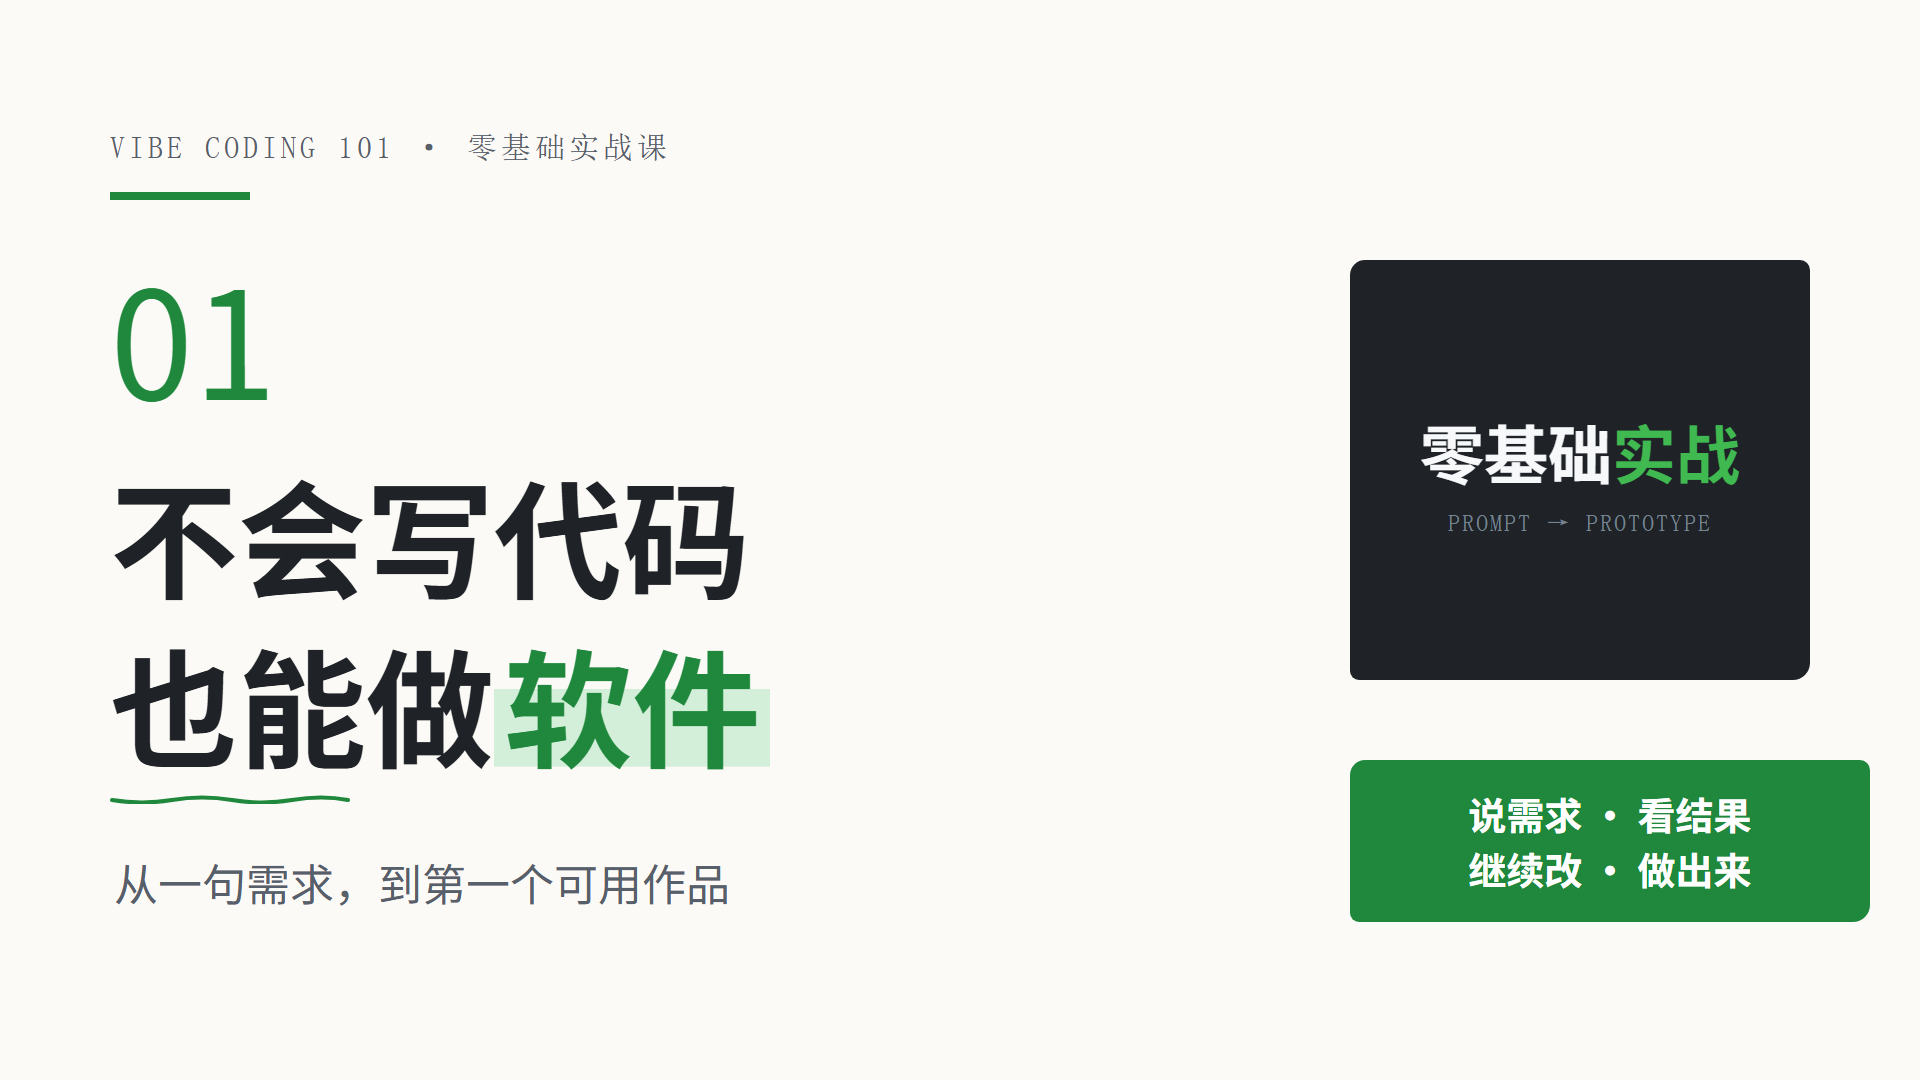
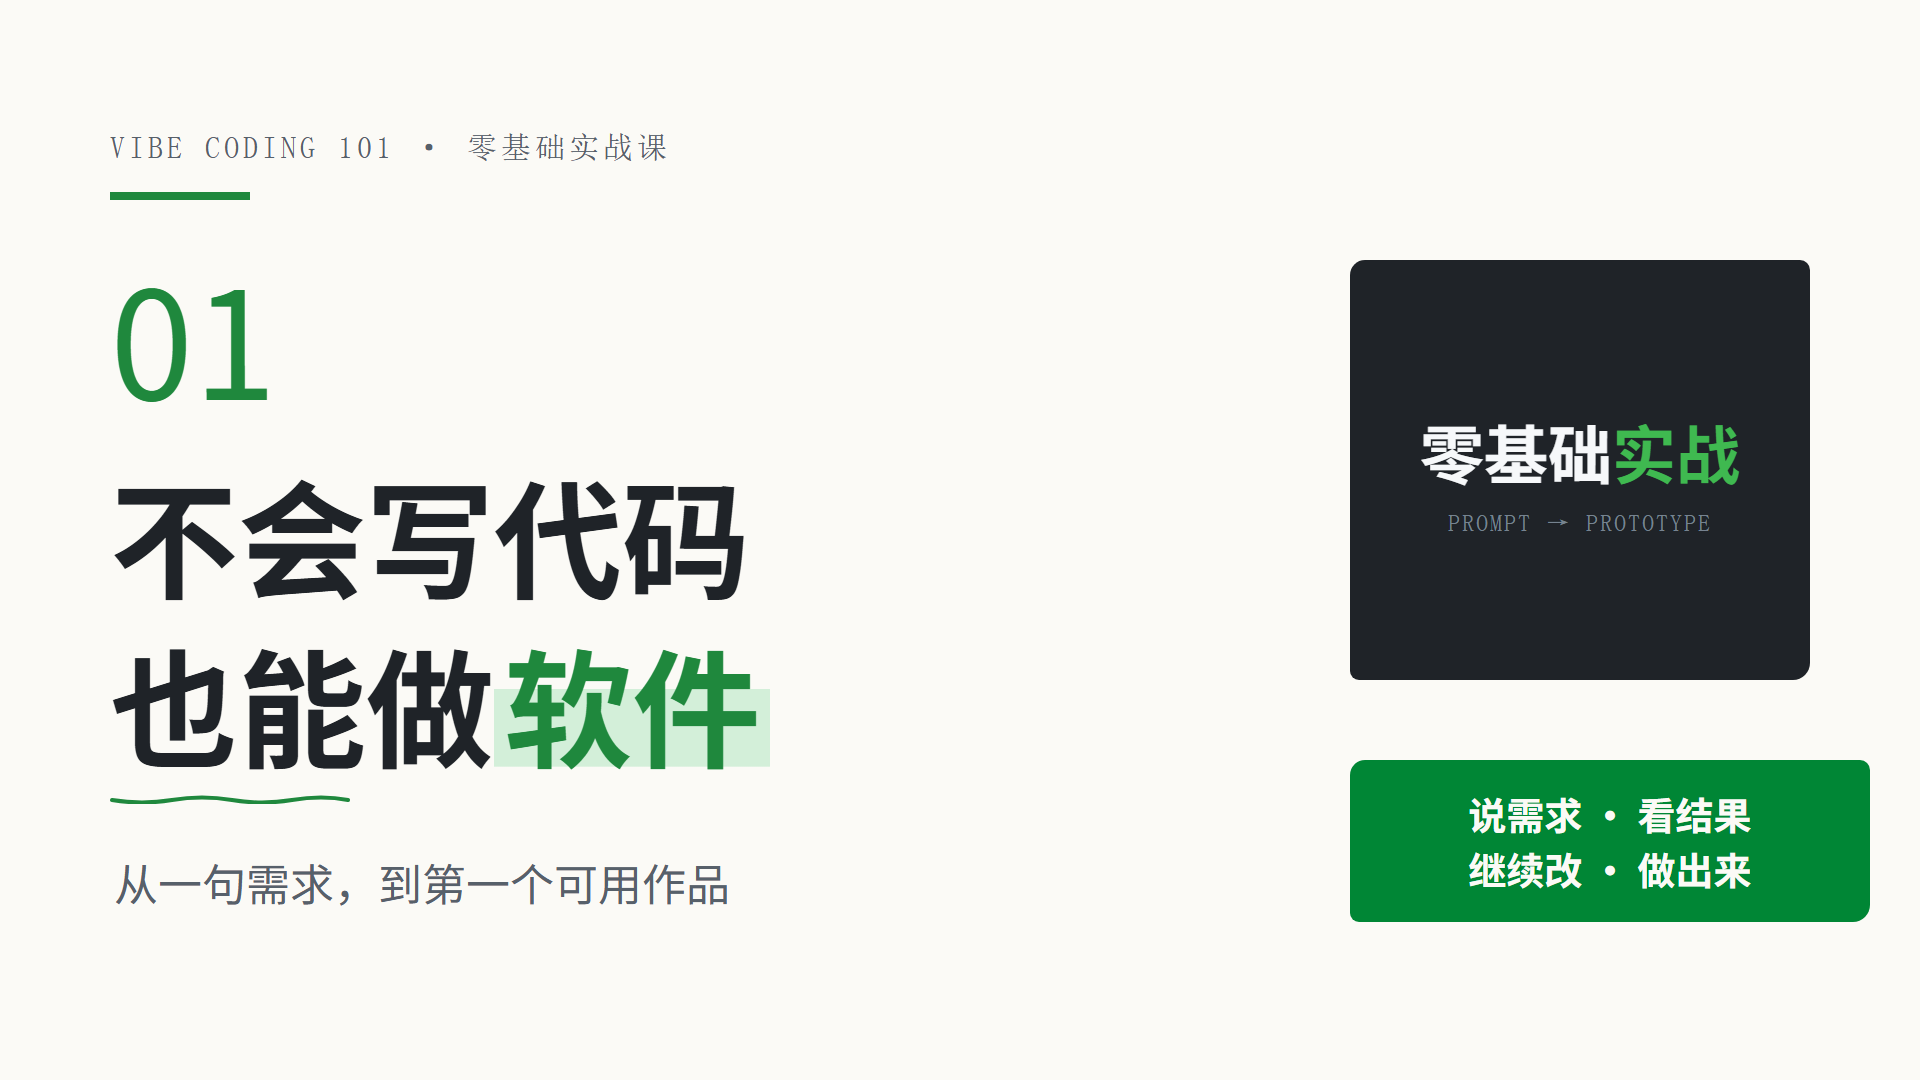
feat(covers): put the EP.01 CTA on the measured accent block
White text on #1f883d measured 4.33:1, under the onText floor, on both
EP.01 covers; the block is now #008635 with paper text (4.51:1 / APCA 74)
and the deliverable webp files are re-snapshotted from the compositions.
Also lands the FA-013 real-image key visual (cover-art-fa013.webp, no
in-image text, prompt from prompt_style.py) for Phase G reuse, and brings
the handdraw README status table in line with what actually shipped.

Changed region(s): [[0.6875, 0.7028, 1.0, 0.8556]]

diff --git a/videos/vertical/compositions/cover.html b/videos/vertical/compositions/cover.html
@@ -64,13 +64,13 @@
       top: 1420px;
       left: 72px;
       width: 936px;
-      background: #1f883d;
+      background: #008635;
       border-radius: 15px 10px 17px 9px;
       padding: 34px 40px;
       font-family: "Noto Sans JP", sans-serif;
       font-weight: 700;
       font-size: 46px;
-      color: #ffffff;
+      color: #fbfaf6;
       text-align: center;
     }
     #cv-sub {

diff --git a/videos/landscape/compositions/cover.html b/videos/landscape/compositions/cover.html
@@ -88,13 +88,13 @@
       top: 760px;
       left: 1350px;
       width: 460px;
-      background: #1f883d;
+      background: #008635;
       border-radius: 15px 10px 17px 9px;
       padding: 26px 30px;
       font-family: "Noto Sans JP", sans-serif;
       font-weight: 700;
       font-size: 38px;
-      color: #ffffff;
+      color: #fbfaf6;
       text-align: center;
     }
 

diff --git a/design/handdraw/README.md b/design/handdraw/README.md
@@ -1,7 +1,7 @@
 # 手绘风改造方案（handraw-style）
 
 > 依据 [yang0/handraw-style](https://github.com/yang0/handraw-style) 的风格库与规则生成。
-> 本目录只交付**提示词与点位方案**，未生成任何图片；把提示词粘进生图模型即可出图。
+> 本目录交付提示词与点位方案，并落地了代码绘制的封面与首批图解；`covers/cover-art-fa013.webp` 为 FA-013 真出图 key visual（无字）。
 > 原始需求逐字存档于 `original-request.txt`。
 
 ## 一句话目标
@@ -45,8 +45,9 @@ python skills/handdraw-style-prompter/scripts/resolve_reference.py --model gpt-i
 
 | 资产 | 现状 | 改造稿 |
 | --- | --- | --- |
-| 书封面 `book/assets/cover.svg` / `cover.webp` | 代码海报风 | `covers.md` 第 0 组（未落地） |
-| EP.01 横/竖封面 `deliverables/{landscape,vertical}-cover.webp` | 2026-10-31 按 composition 重截旧海报（**尚未手绘化**，缺 EP 数字/副标题/卡片/CTA 的手绘稿） | Phase B：`covers.md` 第 1–2 组（FA-013 真出图 / SVG 兜底）→ `render_ep01_covers.py` |
+| 书封面 `book/assets/cover.svg` / `cover.webp` | ✅ 手绘 + 已对齐 `design/system` token（卡面 `#fffdf8`、角标 `#008635`+纸色字 4.51:1/APCA 74、柿子橙苹果）；webp 由 `render_book_cover.py` 重出 | `covers.md` 第 0 组（已落地） |
+| EP.01 横/竖封面 `deliverables/{landscape,vertical}-cover.webp` | ✅ composition 已手绘皮肤（b21a488）并按 composition 重截（c7715ea）；CTA 改 `#008635` 底 + 纸色字（原白字压 `#1f883d` 实测 4.33:1 不达标） | `render_ep01_covers.py` |
+| FA-013 真出图 key visual `covers/cover-art-fa013.webp` | ✅ 已出图（1376×768、画面无字；`prompt_style.py --style FA-013 --color C-26` 的确定性提示词） | Phase G 落地页/deck hero 可复用；带字封面仍以代码绘制为准（中文排版可控） |
 | EP.02/03/04 封面 `deliverables/ep0X-cover.webp` | ✅ 已换成手绘稿（2026-10-31） | `covers.md` 第 3–5 组 → 实现在 `covers/ep0X.html` |
 | 书籍正文知识图解 | 已用**手写 SVG** 落地首批 6 张入正文（见 `book-illustrations.md`）；215 节全量点位未扫 | Phase C：`prompt_style.py` 批量出词 + `insert_illustrations.py` 回填 |
 | 视频正片场景 | ✅ 手绘皮肤（纸面/墨线/marker/硬阴影/纸纹 + kinetic 动效）**已铺满 5 工程 31 场景并重渲 5 支成片**（b21a488/3b31a9b）；仅欠“场景内示意图换成手绘图形隐喻” | Phase E：图解层（时序中性、不改时长） |
@@ -95,7 +96,7 @@ python design/handdraw/render_ep01_covers.py     # 2 张：1920×1080 + 1080×19
 
 ## 尚未做、需要时再点名的事
 
-- 真出图：书封面 / EP.01 横竖封面的 FA-013 手绘稿（需指定生图模型/通道；无通道则走 SVG/代码兜底，同 `design/system/tokens`）。
+- 带字封面的真出图版本：FA-013 key visual 已出（`covers/cover-art-fa013.webp`，无字）；若要 AI 版封面，中文标题仍需代码叠加，暂以 SVG/代码封面为交付口径。
 - 场景内示意图的手绘化（Phase E：皮肤已铺满 31 场景，只欠把“截图/示意图”换成图形隐喻；时序中性、不改时长，需重渲）。
 - 全书 215 节的完整插图点位扫描与回填（Phase C：已交 6 张，`prompt_style.py` + `insert_illustrations.py` 可批量）。
 - 全书正文 / 配音稿 / 字幕的去 AI 味（Phase D 正文 refactor、Phase F 口播 recreate + 逐集重剪，口径见 `design/system/deai-rules.md`）。
